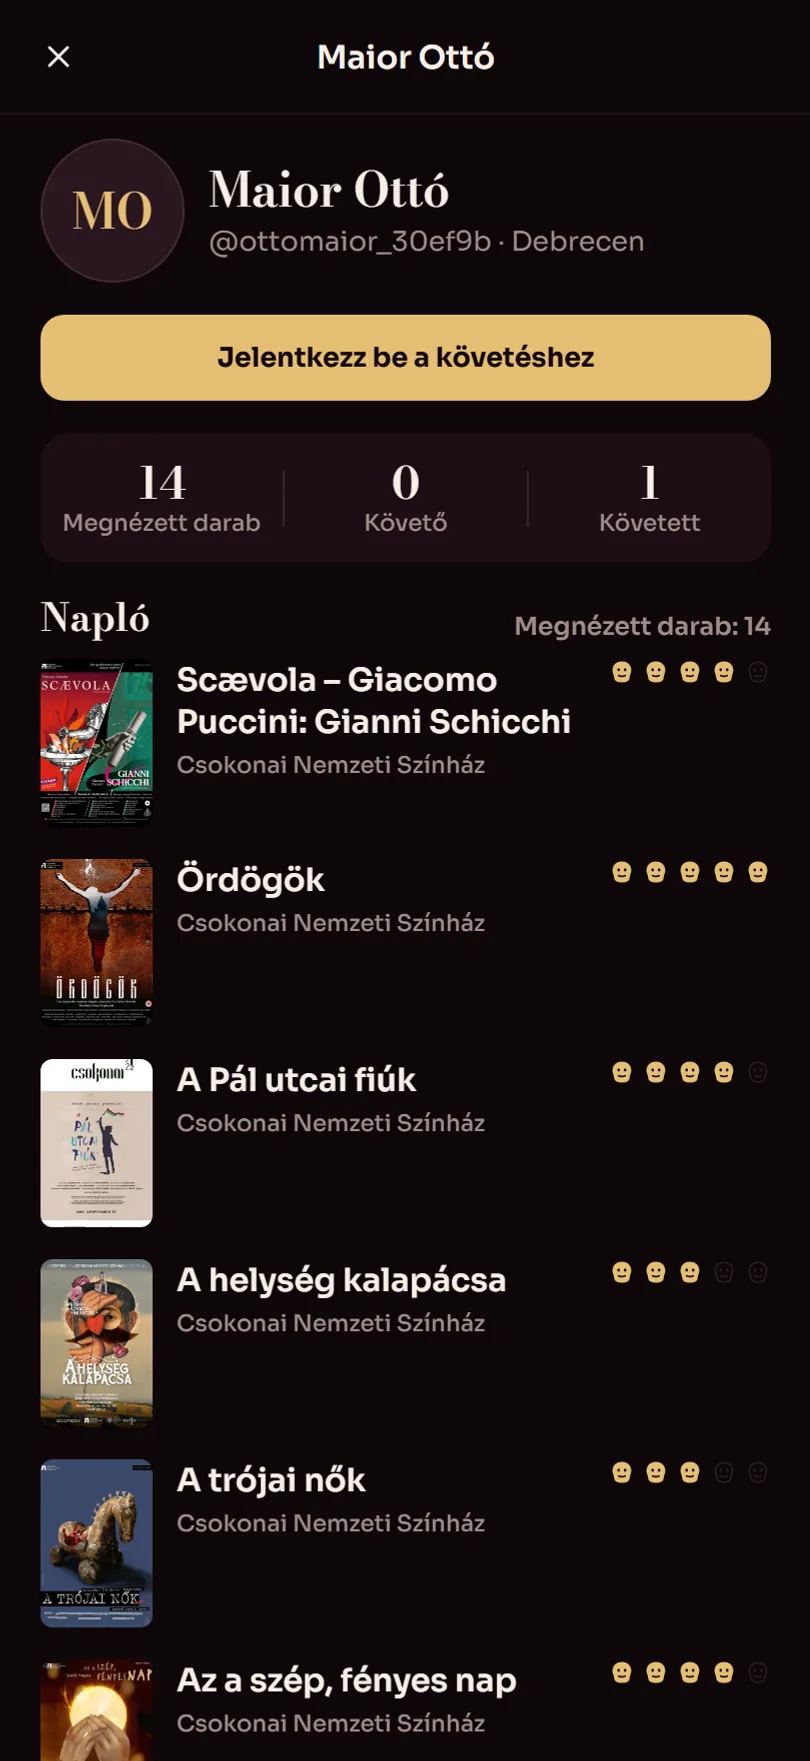
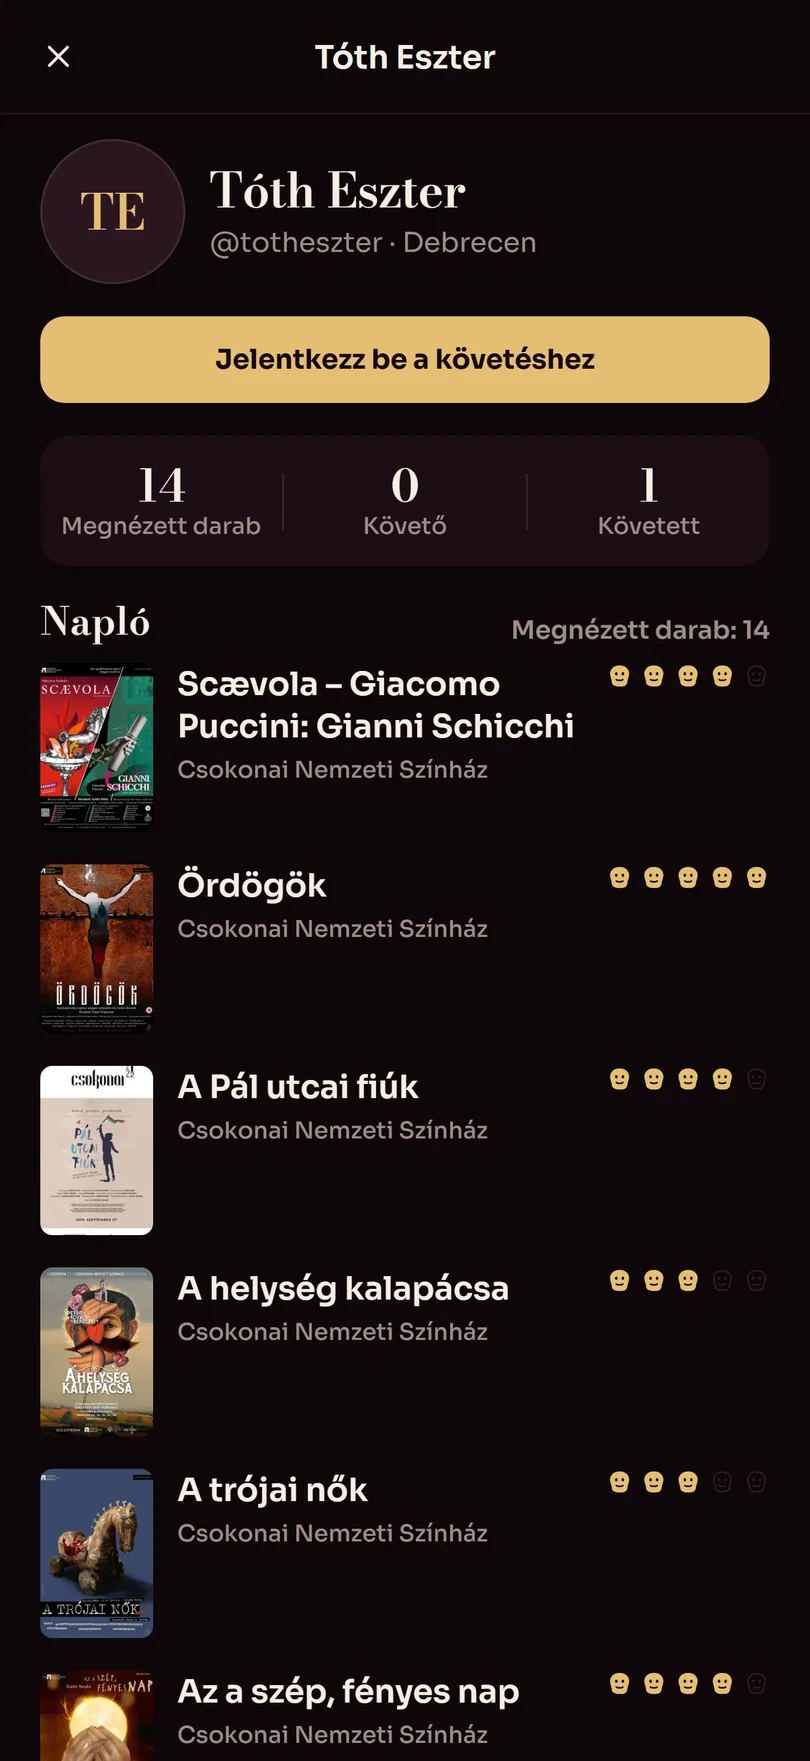
Take the app link off the landing page for the closed alpha, and the author's name off the screenshots
The public-profile screenshot was the author's own account, so his name,
handle and initials were on the page four times outside the contact section.
The screen is re-shot from the running app with a stand-in, Tóth Eszter,
swapped into the DOM before capture; everything else in the shot is real,
and the alt text and its English entry follow.

The app is in closed alpha and only a handful of people should have the
address, so the three "open the app" buttons — header, hero, contact — now
ask for an invite over mailto: with a prefilled subject in each language.
The hero says under the lede that this is a closed alpha, the FAQ opens
with "who can use it now?", and the contact section leads with the
invitation. The language switch learns to swap hrefs so the subject line
follows the reader's language. The footer's legal links keep pointing at
the app's host, because the questionnaire's privacy notice lives there.

Both READMEs record the swapped name and how to undo the alpha state.

diff --git a/landing/index.html b/landing/index.html
@@ -257,6 +257,14 @@ html { scroll-behavior: smooth; }
 }
 .hero h1 em { font-style: italic; color: var(--gold); font-weight: 400; }
 .hero__lede { animation: rise-in 0.85s cubic-bezier(0.16,0.9,0.3,1) 0.62s both; max-width: 46ch; text-align: center; }
+/* The alpha note. It sits between the promise and the door so that a
+   visitor reads why the door asks for an email before they reach it. */
+.hero__stage {
+  display: flex; flex-wrap: wrap; align-items: center; justify-content: center; gap: 0.55rem 0.75rem;
+  max-width: 46ch; font-size: 0.95rem; line-height: 1.55; color: var(--dim);
+  animation: rise-in 0.85s cubic-bezier(0.16,0.9,0.3,1) 0.68s both;
+}
+.hero__stage .badge { flex: none; font-weight: 600; letter-spacing: 0.04em; }
 .hero__cta { display: flex; flex-wrap: wrap; gap: 0.7rem; justify-content: center; animation: rise-in 0.85s cubic-bezier(0.16,0.9,0.3,1) 0.74s both; }
 .hero__meta {
   display: flex; flex-wrap: wrap; justify-content: center; gap: 0.5rem 1.1rem;
@@ -304,6 +312,7 @@ html { scroll-behavior: smooth; }
   .hero__copy { align-items: flex-start; max-width: none; }
   .hero h1 { font-size: clamp(2.45rem, 3.7vw, 3.85rem); }
   .hero__lede { text-align: left; max-width: 34ch; }
+  .hero__stage { justify-content: flex-start; text-align: left; max-width: 40ch; }
   .hero__cta, .hero__meta { justify-content: flex-start; }
 }
 
@@ -493,7 +502,7 @@ html { scroll-behavior: smooth; }
       <button class="lang__btn" type="button" data-lang="en" aria-pressed="false">EN</button>
     </div>
 
-    <a class="btn btn--gold btn--sm" href="https://szinhaz-tracker-production.up.railway.app/" data-t="ctaOpenShort">Megnyitom</a>
+    <a class="btn btn--gold btn--sm" href="mailto:ottomaior@protonmail.com?subject=Vastaps%20alfa%20%E2%80%93%20teszteln%C3%A9k" data-t="ctaInviteShort" data-t-href="hrefInvite">Kérek meghívót</a>
   </div>
 </header>
 
@@ -520,10 +529,11 @@ html { scroll-behavior: smooth; }
         <p class="eyebrow hero__eyebrow" data-t="heroEyebrow">Magyar színházi napló</p>
         <h1 data-t="heroTitle">A magyar színház,<br><em>egy naplóban</em>.</h1>
         <p class="lede hero__lede" data-t="heroLede">Nézd meg, mi megy ma este Budapesten és Debrecenben. Jegyezd fel, amit láttál, értékeld, és évek múlva is tudni fogod, melyik este volt az.</p>
+        <p class="hero__stage" data-t="heroStage"><span class="badge badge--on">Zárt alfa</span><span>Most még néhány ember próbálja, félkész állapotban. Ha te is kipróbálnád, írj — elküldöm a linket.</span></p>
         <div class="hero__cta">
-          <a class="btn btn--gold" href="https://szinhaz-tracker-production.up.railway.app/">
-            <svg viewBox="0 0 24 24" width="18" height="18" fill="none" stroke="currentColor" stroke-width="1.8" stroke-linecap="round" stroke-linejoin="round" aria-hidden="true" focusable="false"><path d="M5 12h14M13 6l6 6-6 6"/></svg>
-            <span data-t="ctaOpen">Megnyitom az appot</span>
+          <a class="btn btn--gold" href="mailto:ottomaior@protonmail.com?subject=Vastaps%20alfa%20%E2%80%93%20teszteln%C3%A9k" data-t-href="hrefInvite">
+            <svg viewBox="0 0 24 24" width="18" height="18" fill="none" stroke="currentColor" stroke-width="1.8" stroke-linecap="round" stroke-linejoin="round" aria-hidden="true" focusable="false"><rect x="3" y="5" width="18" height="14" rx="2"/><path d="m3.5 7 8.5 6 8.5-6"/></svg>
+            <span data-t="ctaInvite">Kérek meghívót</span>
           </a>
           <a class="btn btn--ghost" href="#felfedezes">
             <svg viewBox="0 0 24 24" width="18" height="18" fill="none" stroke="currentColor" stroke-width="1.8" stroke-linecap="round" stroke-linejoin="round" aria-hidden="true" focusable="false"><path d="M12 5v13M6 12l6 6 6-6"/></svg>
@@ -678,7 +688,7 @@ html { scroll-behavior: smooth; }
         <div class="phone phone--tilt" style="--w: 288px; --tilt: 4deg" data-parallax="0.05">
           <div class="phone__body">
             <div class="phone__screen">
-              <img src="shots/user.webp" width="810" height="1761" loading="lazy" alt="Maior Ottó nyilvános profilja: 14 megnézett darab, alatta a napló plakátokkal és maszk-értékelésekkel." data-t-alt="altUser">
+              <img src="shots/user.webp" width="810" height="1761" loading="lazy" alt="Tóth Eszter nyilvános profilja: 14 megnézett darab, alatta a napló plakátokkal és maszk-értékelésekkel." data-t-alt="altUser">
               <span class="phone__glare"></span>
             </div>
           </div>
@@ -809,6 +819,10 @@ html { scroll-behavior: smooth; }
       </div>
       <div class="faq" data-reveal>
         <details>
+          <summary><span data-t="faq0Q">Ki használhatja most?</span><svg class="faq__sign" viewBox="0 0 24 24" fill="none" stroke="currentColor" stroke-width="1.6" stroke-linecap="round" aria-hidden="true" focusable="false"><path d="M12 5v14M5 12h14"/></svg></summary>
+          <div class="faq__a"><p data-t="faq0A">Egyelőre egy szűk kör: a Vastaps zárt alfatesztben fut, és az app címe szándékosan nincs kint ezen az oldalon. Nem titok, csak félkész — vannak még hibái és hiányzó részei, és ezeket előbb néhány tesztelővel szeretném megtalálni. Ha vállalod, hogy egy félkész appot használsz, és elmondod, mi hiányzik, írj egy e-mailt, és elküldöm a linket. Amikor nyilvános lesz, itt lesz a gomb.</p></div>
+        </details>
+        <details>
           <summary><span data-t="faq1Q">Kerül valamibe?</span><svg class="faq__sign" viewBox="0 0 24 24" fill="none" stroke="currentColor" stroke-width="1.6" stroke-linecap="round" aria-hidden="true" focusable="false"><path d="M12 5v14M5 12h14"/></svg></summary>
           <div class="faq__a"><p data-t="faq1A">Ma nem. Böngészni, naplózni és értékelni fizetés nélkül lehet, és hirdetés sincs benne. Hogy hosszabb távon miből tartja el magát, az még nyitott kérdés; a színházi együttműködés például szóba jöhet. Ha ez változik, előre szólok, és nem visszamenőleg.</p></div>
         </details>
@@ -842,13 +856,14 @@ html { scroll-behavior: smooth; }
       <p class="act" data-reveal><span class="act__num">V.</span> <span data-t="act5">Felvonás · Kapcsolat</span> <span class="act__rule"></span></p>
       <div class="contact" data-reveal>
         <h2 data-t="contactTitle">Írj, ha érdekel.</h2>
-        <p class="lede" data-t="contactBody">Színházat képviselsz, és szeretnéd, hogy a műsorotok is benne legyen? Sajtó, együttműködés, hibajelentés, vagy csak kíváncsi vagy, hogyan készült? Egy e-mail elég — magyarul vagy angolul.</p>
+        <p class="lede" data-t="contactAlpha">A Vastaps zárt alfatesztben fut: néhány ember használja, félkész állapotban, és az ő észrevételeik alakítják. Ha te is kipróbálnád, egy e-mail elég — elküldöm a linket, és cserébe csak annyit kérek, hogy mondd el, mi hiányzik.</p>
+        <p class="lede" data-t="contactBody">Színházat képviselsz, és szeretnéd, hogy a műsorotok is benne legyen? Sajtó, együttműködés, hibajelentés, vagy csak kíváncsi vagy, hogyan készült? Ugyanerre a címre — magyarul vagy angolul.</p>
         <a class="mailto" href="mailto:ottomaior@protonmail.com?subject=Vastaps">
           <svg viewBox="0 0 24 24" fill="none" stroke="currentColor" stroke-width="1.5" stroke-linecap="round" stroke-linejoin="round" aria-hidden="true" focusable="false"><rect x="3" y="5" width="18" height="14" rx="2"/><path d="m3.5 7 8.5 6 8.5-6"/></svg>
           ottomaior@protonmail.com
         </a>
         <div class="hero__cta" style="margin-top: 0.4rem">
-          <a class="btn btn--gold" href="https://szinhaz-tracker-production.up.railway.app/" data-t="ctaOpen2">Megnyitom az appot</a>
+          <a class="btn btn--gold" href="mailto:ottomaior@protonmail.com?subject=Vastaps%20alfa%20%E2%80%93%20teszteln%C3%A9k" data-t="ctaInvite2" data-t-href="hrefInvite">Kérek meghívót</a>
           <a class="btn btn--ghost" href="/kutatas" data-t="ctaResearch">Segíts alakítani — 7 perces kérdőív</a>
         </div>
       </div>
@@ -885,12 +900,14 @@ html { scroll-behavior: smooth; }
     noticeText: "<b>In the making.</b> Help decide what goes in — seven minutes, anonymous.",
     noticeLink: 'Take the questionnaire <svg viewBox="0 0 24 24" fill="none" stroke="currentColor" stroke-width="2" stroke-linecap="round" stroke-linejoin="round" aria-hidden="true" focusable="false"><path d="M5 12h14M13 6l6 6-6 6"/></svg>',
     langLabel: "Language",
-    ctaOpenShort: "Open",
+    ctaInviteShort: "Request an invite",
+    hrefInvite: "mailto:ottomaior@protonmail.com?subject=Vastaps%20alpha%20%E2%80%93%20I%27d%20like%20to%20test",
 
     heroEyebrow: "A Hungarian theatre diary",
     heroTitle: "Hungarian theatre,<br><em>in one diary</em>.",
     heroLede: "See what is on tonight in Budapest and Debrecen. Note down what you saw, rate it, and years from now still know which night it was.",
-    ctaOpen: "Open the app", ctaTour: "How it works",
+    heroStage: '<span class="badge badge--on">Closed alpha</span><span>A few people are trying it right now, half-finished on purpose. If you would like to as well, write — I will send you the link.</span>',
+    ctaInvite: "Request an invite", ctaTour: "How it works",
     metaPlays: "1,199 productions", metaCities: "Budapest and Debrecen", metaSync: "Synced nightly",
     altFeed: "The Vastaps Discover screen: the next evening is Káli holtak at the Katona József Theatre, with the poster, the curtain time and a button to open it; below it, the rest of the week.",
 
@@ -926,7 +943,7 @@ html { scroll-behavior: smooth; }
     j2Title: "Your profile is a programme.",
     j2Body: "Every performance you have seen on one page, with the poster, the date and your rating. Public if you want it to be — so you can show what you saw this season.",
     j2Body2: "At the end of the season Vastaps adds it up: how many evenings you spent at the theatre, what it cost, which genres you watched, and who you saw on stage most often.",
-    altUser: "Maior Ottó’s public profile: 14 plays seen, and below it the diary with posters and mask ratings.",
+    altUser: "Tóth Eszter’s public profile: 14 plays seen, and below it the diary with posters and mask ratings.",
 
     act3: "People",
     p1Eyebrow: "Performers and directors",
@@ -965,6 +982,8 @@ html { scroll-behavior: smooth; }
     spec6: "The iOS and Android builds are in progress. The web version already works on a phone.",
 
     faqTitle: "Frequently asked",
+    faq0Q: "Who can use it now?",
+    faq0A: "A small circle, for now: Vastaps is in closed alpha, and the app’s address is deliberately not on this page. It is not a secret, only unfinished — there are still bugs and missing pieces, and I would rather find them with a few testers first. If you are willing to use a half-finished app and say what is missing, send an email and I will send you the link. When it opens up, the button will be here.",
     faq1Q: "Does it cost anything?",
     faq1A: "Not today. Browsing, logging and rating cost nothing, and there is no advertising. How it supports itself longer term is still an open question — partnerships with theatres, for instance, are one possibility. If that changes, you will hear about it in advance, and it will not apply retroactively.",
     faq2Q: "Where does the data come from?",
@@ -980,8 +999,9 @@ html { scroll-behavior: smooth; }
 
     act5: "Contact",
     contactTitle: "Write, if this interests you.",
-    contactBody: "Do you work at a theatre and want its listings in here? Press, partnerships, a bug you found, or just curious how it was built? One email is enough — in Hungarian or in English.",
-    ctaOpen2: "Open the app",
+    contactAlpha: "Vastaps is in closed alpha: a few people are using it, half-finished, and their notes are shaping it. If you would like to try it too, one email is enough — I will send you the link, and all I ask in return is that you tell me what is missing.",
+    contactBody: "Do you work at a theatre and want its listings in here? Press, partnerships, a bug you found, or just curious how it was built? Same address — in Hungarian or in English.",
+    ctaInvite2: "Request an invite",
     ctaResearch: "Help shape it — a 7-minute questionnaire",
 
     footNote: "Vastaps — a Hungarian theatre diary. Made by Maior Ottó.",
@@ -1012,6 +1032,12 @@ html { scroll-behavior: smooth; }
       var k = el.getAttribute("data-t-alt");
       stash(el, "huAlt", el.alt);
       el.alt = en && EN[k] ? EN[k] : el.dataset.huAlt;
+    });
+
+    document.querySelectorAll("[data-t-href]").forEach(function (el) {
+      var k = el.getAttribute("data-t-href");
+      stash(el, "huHref", el.getAttribute("href"));
+      el.setAttribute("href", en && EN[k] ? EN[k] : el.dataset.huHref);
     });
 
     document.querySelectorAll("[data-t-label]").forEach(function (el) {

diff --git a/landing/README.hu.md b/landing/README.hu.md
@@ -43,6 +43,29 @@ Az újrafényképezés a fenti felvétel újrafuttatását jelenti; nincs hozzá
 szkript a tárházban, mert dev szerver és böngésző-binárist igényel, ami csak
 fejlesztői gépen van meg.
 
+Egyikük szándékosan retusált. A `user.webp` nyilvános profilja a szerző saját
+fiókja, a neve pedig a kapcsolat szekcióba tartozik, és sehova máshova az
+oldalon; ezért a felvétel előtt a megjelenített nevet, a felhasználónevet és
+az avatár monogramját a DOM-ban egy helyettesre cseréltük, **Tóth Eszterre**,
+aki nem létező fiók. Minden más a képen — a darabszám, a napló, az
+értékelések — valódi. Ha ezt a képernyőt újra kell fényképezni, ugyanezt a
+cserét kell megismételni (az `alt` szöveg és annak angol változata is őt
+nevezi meg).
+
+## Amíg az app zárt alfatesztben fut
+
+Az oldalon nincs link az appra. Ahol korábban „megnyitom az appot” állt — a
+fejléc gombja, a hero elsődleges gombja és a kapcsolat szekció gombja —, ott
+most egy `mailto:` kér meghívót, előre kitöltött tárgysorral; a hero a lede
+alatt kimondja, hogy ez zárt alfa; a GYIK a „ki használhatja most?” kérdéssel
+nyit; a kapcsolat szekció pedig a meghívással kezd. Az app címe szándékosan
+nem szerepel a markupban: néhány ember használ egy félkész buildet, és a
+bejutás módja az, hogy írni kell. Amikor az app megnyílik, a három gomb
+visszakapja a linkjét, a hero megjegyzése és az első GYIK-bejegyzés kikerül,
+a kapcsolat szövege pedig elveszti az első bekezdését. A lábléc három jogi
+linkje továbbra is az app hosztjára mutat, mert a kérdőív adatvédelmi
+tájékoztatója ott lakik.
+
 ## A közzététele
 
 **Cloudflare Pages**-re, ebből a könyvtárból, az `npm run deploy:landing`

diff --git a/landing/README.md b/landing/README.md
@@ -37,6 +37,28 @@ Re-taking them means re-running that capture; there is no script checked in
 for it, because it needs a dev server and a browser binary that only exist on
 a development machine.
 
+One of them is doctored on purpose. The public profile in `user.webp` is the
+author’s own account, and his name belongs in the contact section and nowhere
+else on the page; so before the capture the display name, the handle and the
+avatar initials were swapped in the DOM for a stand-in, **Tóth Eszter**, who
+is not a real account. Everything else in the shot — the count, the diary,
+the ratings — is real. Re-shooting that screen means doing the same swap
+again (the `alt` text and its English entry name her too).
+
+## While the app is in closed alpha
+
+The page carries no link to the app. Every place that used to say “open the
+app” — the button in the header, the primary button in the hero and the one in
+the contact section — now asks for an invite over `mailto:` with a prefilled
+subject line; the hero says under the lede that this is a closed alpha; the
+FAQ opens with “who can use it now?”; and the contact section leads with the
+invitation. The app’s address stays out of the markup on purpose: a handful of
+people are using a half-finished build, and the way in is to write. When the
+app opens up, those three buttons go back to linking to it, the hero note and
+the first FAQ entry come out, and the contact copy loses its first paragraph.
+The three legal links in the footer still point at the app’s host, because the
+questionnaire’s privacy notice lives there.
+
 ## Deploying it
 
 To **Cloudflare Pages**, from this directory, with `npm run deploy:landing`.
